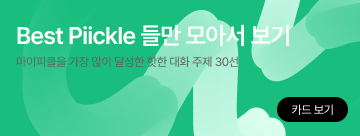
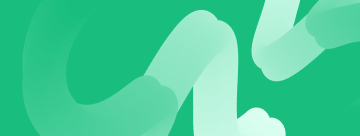
[ feat ] navigate 연결

Changed region(s): [[0.0306, 0.1765, 0.825, 0.3529], [0.0306, 0.4118, 0.6722, 0.5], [0.7639, 0.7059, 0.9778, 0.9118]]

diff --git a/src/components/Category/index.tsx b/src/components/Category/index.tsx
@@ -1,29 +1,36 @@
-import styled from "styled-components";
+import { useNavigate } from "react-router-dom";
 
-import { CategoryBanner } from "../../asset/image";
 import { HeadingTitle } from "../../core/main/headingTitles";
 import Header from "../common/Header";
 import HeadingTitleContainer from "../common/HeadingTitleContainer";
 import CategoryContents from "./CategoryContents";
+import { St } from "./style";
+
+const categoryTitles: HeadingTitle = {
+  title: "Mood Piickle",
+  content: "더욱 쉽게 피클을 즐길 수 있는 방법!\n지금 나의 무드에 맞는 카테고리를 골라보세요",
+  isMoreBtn: false,
+};
+
 export default function Category() {
-  const categoryTitles: HeadingTitle = {
-    title: "Mood Piickle",
-    content: "더욱 쉽게 피클을 즐길 수 있는 방법!\n지금 나의 무드에 맞는 카테고리를 골라보세요",
-    isMoreBtn: false,
+  const navigate = useNavigate();
+
+  const moveBestPiickle = () => {
+    navigate("/card-collection", { state: { type: "best", idx: 0 } });
   };
+
   return (
     <main>
       <Header />
-      <St.CategoryBanner src={CategoryBanner} />
+      <St.CategoryBanner>
+        <St.BannerTitle>Best Piickle 들만 모아서 보기</St.BannerTitle>
+        <St.BannerSubTitle>마이피클을 가장 많이 달성한 핫한 대화 주제 30선</St.BannerSubTitle>
+        <St.GoBestPiickleBtn type="button" onClick={moveBestPiickle}>
+          카드 보기
+        </St.GoBestPiickleBtn>
+      </St.CategoryBanner>
       <HeadingTitleContainer headingTitles={categoryTitles} />
       <CategoryContents />
     </main>
   );
 }
-
-const St = {
-  CategoryBanner: styled.img`
-    width: 36rem;
-    height: 13.6rem;
-  `,
-};

diff --git a/src/components/Category/style.ts b/src/components/Category/style.ts
@@ -1,0 +1,8 @@
+import styled from "styled-components";
+
+export const St = {
+  CategoryBanner: styled.section`
+    width: 36rem;
+    height: 13.6rem;
+  `,
+};
